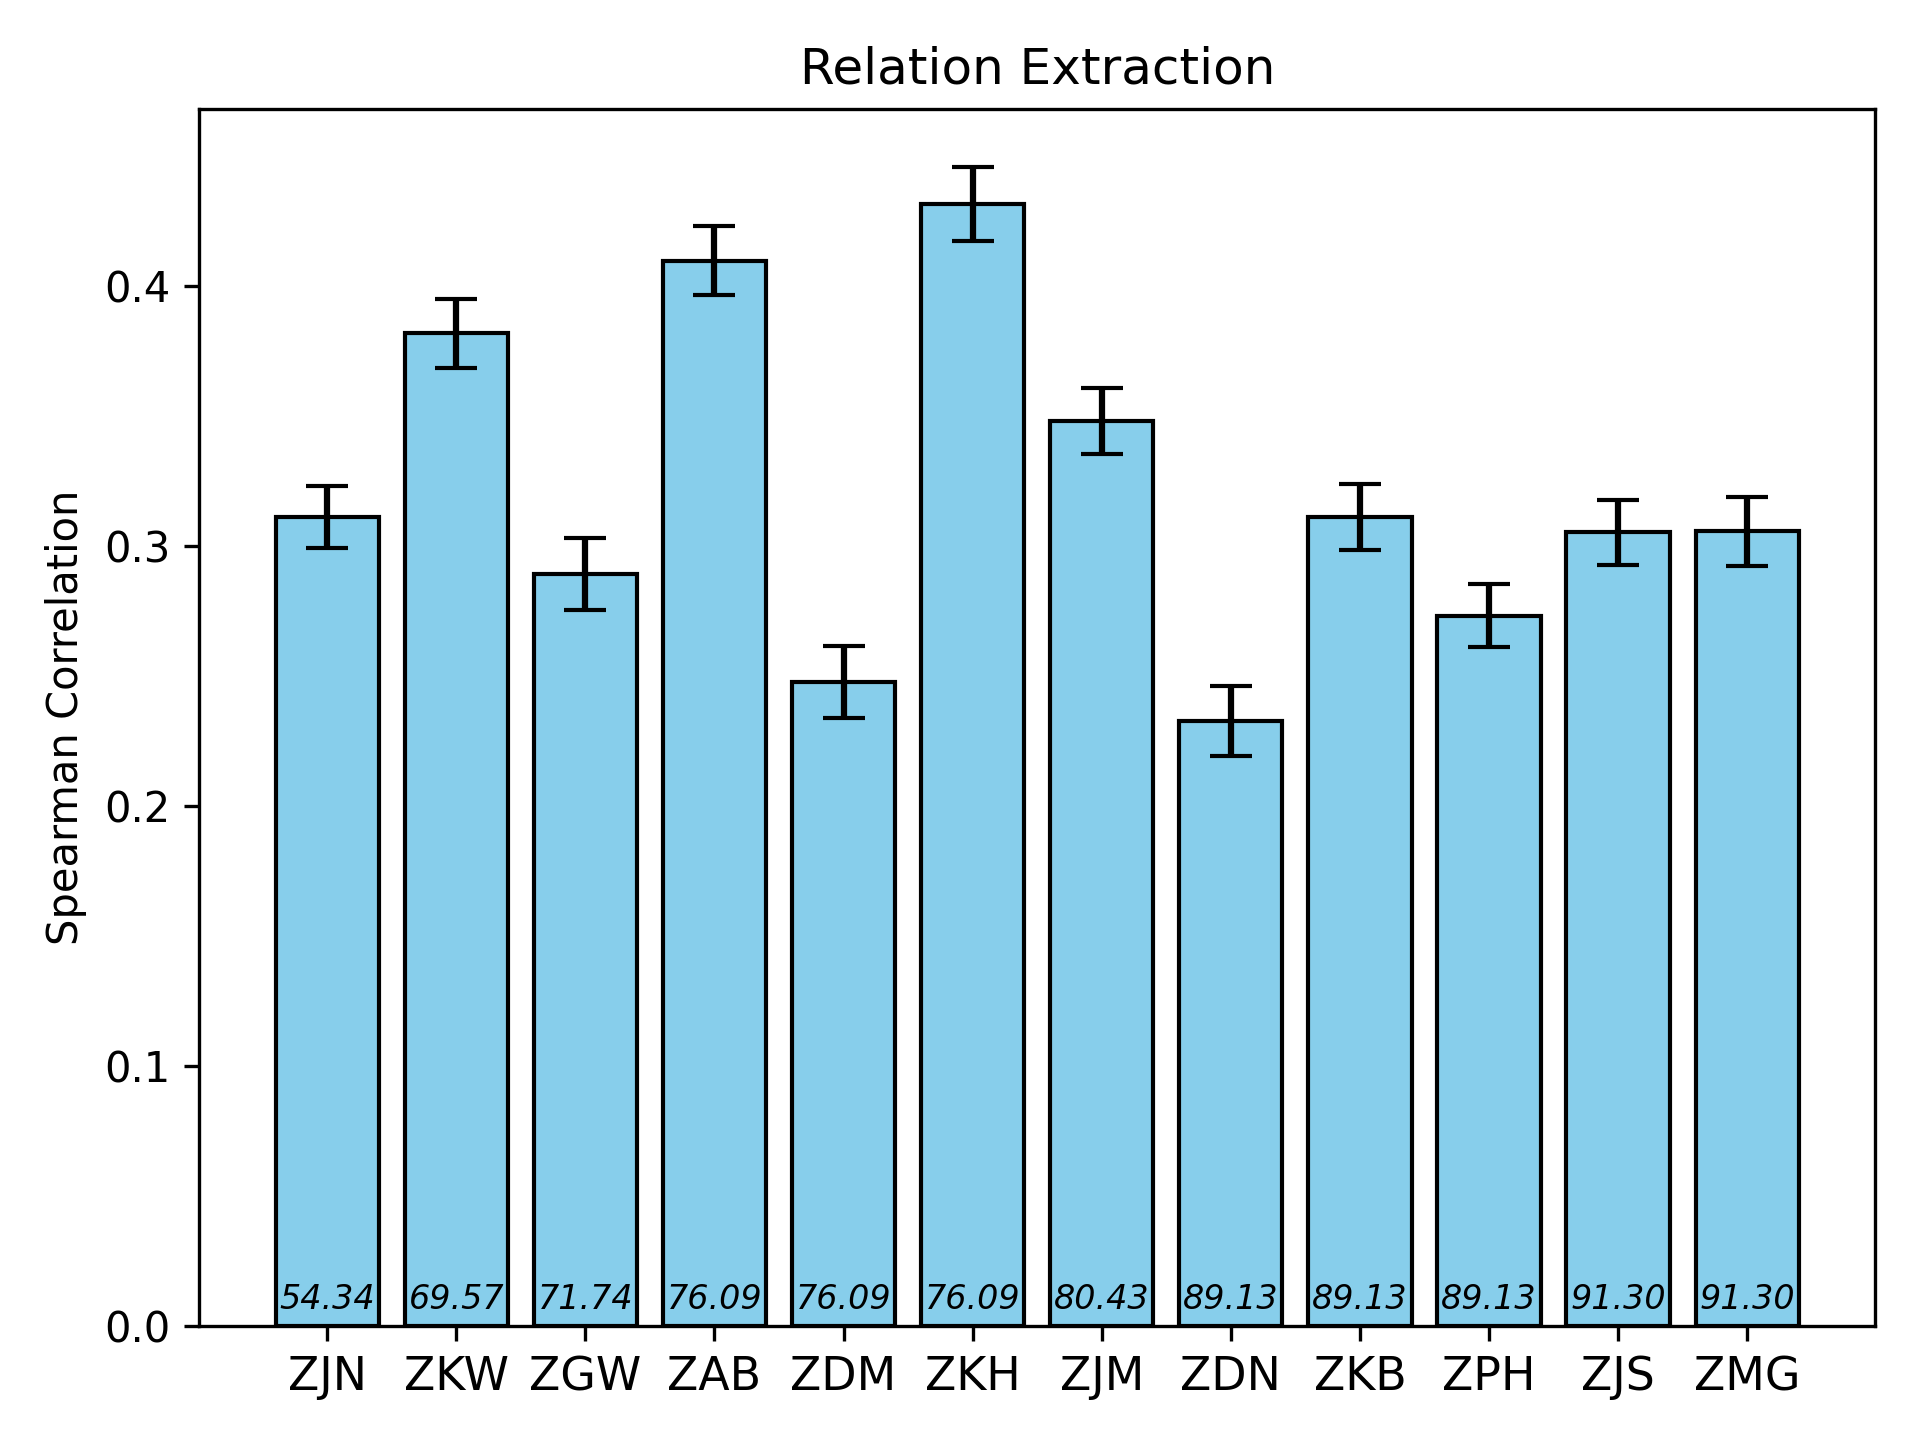
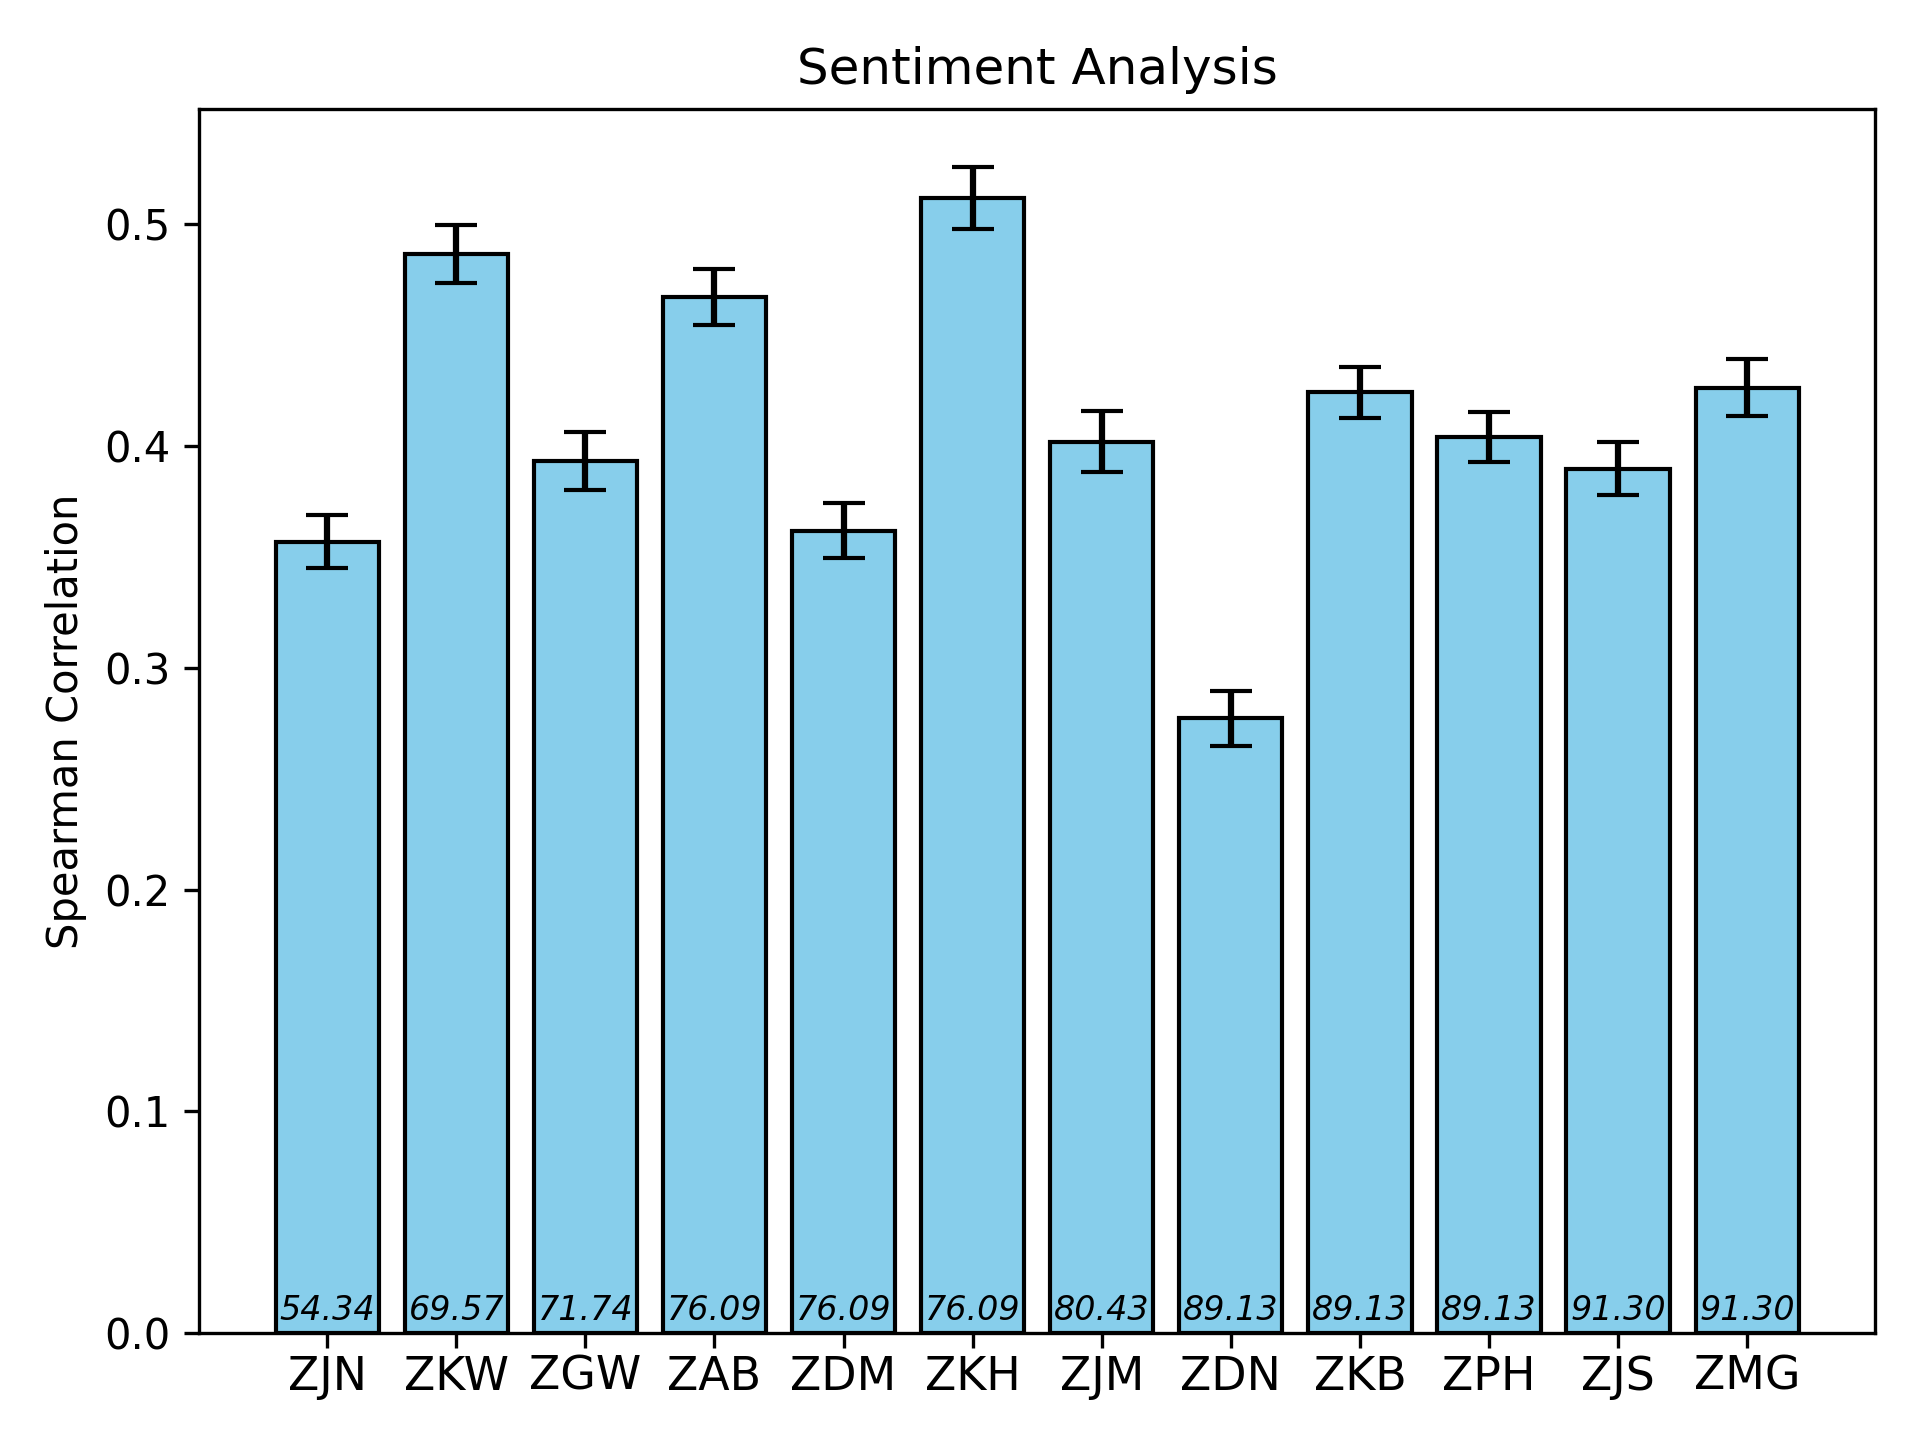
participant-level analysis

diff --git a/analysis.py b/analysis.py
@@ -5,7 +5,7 @@ import ast
 import argparse 
 import scipy.stats  
 import matplotlib.pyplot as plt
-from config import subj_sst_acc, subj_wiki_acc
+from config import subj_sst_acc, subj_wiki_acc, task_title
 from matplotlib.font_manager import FontProperties
 
 name_dict = {"bnc": "BNC", "bert": "BERT_BASE", "bert_large": "BERT_Large", "roberta": "RoBERTa", "distilbert": "DistilBERT", "gpt2": "GPT2", "gpt2_large": "GPT2_Large", "opt": "OPT"}
@@ -83,17 +83,16 @@ def draw_boxplot(corr_df):
     plt.savefig('correlation_boxplot.png')
     plt.show()
 
-def subject_analysis(task):
+def subject_analysis(task, model_name):
     corr_df = pd.DataFrame()
     subj_df = pd.read_csv(f'data/{task}/fixation_subj.csv', sep=",")
-    bert_df = pd.read_csv(f'data/{task}/gpt2_finetuned_saliency.csv', sep=",")
+    model_df = pd.read_csv(f'data/{task}/{model_name}_finetuned_saliency.csv', sep=",")
     subj_df['list_dur'] = subj_df['list_dur'].apply(ast.literal_eval)
-    bert_df['l1_grad'] = bert_df['l1_grad'].apply(ast.literal_eval)
-    print(subj_df.head())
+    model_df['l1_grad'] = model_df['l1_grad'].apply(ast.literal_eval)
     subjs = subj_df['id'].unique()
     for subj in subjs:
         df = subj_df[subj_df['id'] == subj]
-        df = df.merge(bert_df, on="sid")
+        df = df.merge(model_df, on="sid")
         
         corr_list = []
         for i in range(len(df)):
@@ -102,51 +101,62 @@ def subject_analysis(task):
             corr, _ = scipy.stats.spearmanr(df["l1_grad"][i], df["list_dur"][i])
             corr_list.append(corr)
         # pad the list to the same length
-        corr_list += [np.nan] * (len(bert_df) - len(corr_list))
+        corr_list += [np.nan] * (len(model_df) - len(corr_list))
         corr_df[subj] = corr_list
-    print(corr_df.head())
-    corr_df.to_csv(f'data/{task}/subj_corr.csv', index=False)    
+    corr_df.to_csv(f'data/{task}/{model_name}_subj_corr.csv', index=False)    
 
-def draw_subject_barplot(task):
-    subj_df = pd.read_csv(f'data/{task}/subj_corr.csv', sep=",")
+import matplotlib.pyplot as plt
+from matplotlib.font_manager import FontProperties
+import pandas as pd
+import numpy as np
 
-    mean = subj_df.mean()
-    std_error = subj_df.std() / np.sqrt(len(subj_df))
+def draw_subject_barplot(task_names=["sst", "wiki"], model_name="gpt2"):
+    fig, axs = plt.subplots(1, len(task_names), figsize=(14, 4), sharey=True)
 
-    # Sort the mean by accuracy
-    if task == "sst":
-        mean = mean.sort_index(key=lambda x: [subj_sst_acc[subj] for subj in x])
-    else:
-        mean = mean.sort_index(key=lambda x: [subj_wiki_acc[subj] for subj in x])
+    for j, task in enumerate(task_names):
+        mean_df = pd.read_csv(f'data/{task}/{model_name}_subj_corr.csv', sep=",")
+        mean = mean_df.mean()
+        std_error = mean_df.std() / np.sqrt(len(mean_df))
 
-    # Create bar plot
-    fig, ax = plt.subplots()
-    bars = ax.bar(mean.index, mean, yerr=std_error, capsize=5, color='skyblue', edgecolor='black')
+        # Sort the mean by accuracy (assuming subj_sst_acc is defined somewhere)
+        if task == "sst":
+            mean = mean.sort_index(key=lambda x: [subj_sst_acc[subj] for subj in x])
+            std_error = std_error.sort_index(key=lambda x: [subj_sst_acc[subj] for subj in x])
+        else:
+            mean = mean.sort_index(key=lambda x: [subj_wiki_acc[subj] for subj in x])
+            std_error = std_error.sort_index(key=lambda x: [subj_wiki_acc[subj] for subj in x])
 
-    # Annotate with subj_sst_acc values below the bars
-    for bar, subj in zip(bars, mean.index):
-        acc = subj_sst_acc[subj]
-        ax.text(bar.get_x() + bar.get_width() / 2, -0.02,
-                f'{subj}', ha='center', va='center', color='black', fontproperties=FontProperties(size=11))
-        ax.text(bar.get_x() + bar.get_width() / 2, 0.01,
-                f'{acc:.2f}', ha='center', va='center', color='black', fontproperties=FontProperties(size=8, style='italic'))
+        # Create bar plot
+        bars = axs[j].bar(np.arange(len(mean)), mean, yerr=std_error, capsize=5,
+                          color='skyblue', edgecolor='black', label=task.upper())
 
-    # Set plot title and axis labels
-    ax.set_title('Relation Extraction')
-    ax.set_ylabel('Spearman Correlation')
+        # Annotate with accuracy values above the bars
+        for bar, subj in zip(bars, mean.index):
+            acc = subj_sst_acc[subj] if task == "sst" else subj_wiki_acc[subj]
+            axs[j].text(bar.get_x() + bar.get_width() / 2, 0.09,
+                        f'{subj}', ha='center', va='center', color='black', fontsize=11)
+            axs[j].text(bar.get_x() + bar.get_width() / 2, 0.11,
+                        f'{acc:.2f}', ha='center', va='center', color='black', fontsize=8, style='italic')
 
-    # don't show x-axis label
-    ax.set_xticklabels([])
+        # Set plot title and axis labels
+        axs[j].set_title(task_title[task], fontsize=12)
+        axs[j].set_xticks([])
+        # Set y-axis range
+        axs[j].set_ylim(0.1, 0.45)
+
+        # Set y-axis label
+        if j == 0:
+            axs[j].set_ylabel('Spearman Correlation', fontsize=12)
 
     # Adjust layout
     plt.tight_layout()
-
-    # Save the plot as a high-resolution image
-    plt.savefig(f'{task}_subject_correlation.png', dpi=300)
+    plt.savefig(f'{model_name}_subject_correlation.png', dpi=300)
 
     # Display the plot
     plt.show()
 
+# Example usage
+draw_subject_barplot()
 
 
 def main():
@@ -161,8 +171,10 @@ def main():
     subject = args.subject
 
     if subject:
-        subject_analysis(task)
-        draw_subject_barplot(task)
+        model_names = ["bert", "gpt2"]
+        for model_name in model_names:
+            subject_analysis(task, model_name)
+        draw_subject_barplot()
         return
 
     if tuned == "random":

diff --git a/config.py b/config.py
@@ -24,5 +24,5 @@ subj_sst_acc = {"ZAB": 76.09,"ZDM": 76.09,"ZDN": 89.13, "ZGW": 71.74, "ZJM": 80.
                 "ZJN": 54.34, "ZJS":91.30, "ZKB":89.13, "ZKH":76.09, "ZKW":69.57, "ZMG":91.30, "ZPH":89.13}
 subj_wiki_acc = {"ZAB": 90.42, "ZDM": 96.81, "ZDN": 92.87, "ZGW": 92.14, "ZJM": 79.12,
                 "ZJN": 96.56, "ZJS": 93.86, "ZKB": 95.33, "ZKH": 93.12, "ZKW": 94.84, "ZMG": 95.82, "ZPH": 97.05}
-
+task_title = {"sst": "Sentiment Analysis", "wiki": "Relation Extraction"}
 
